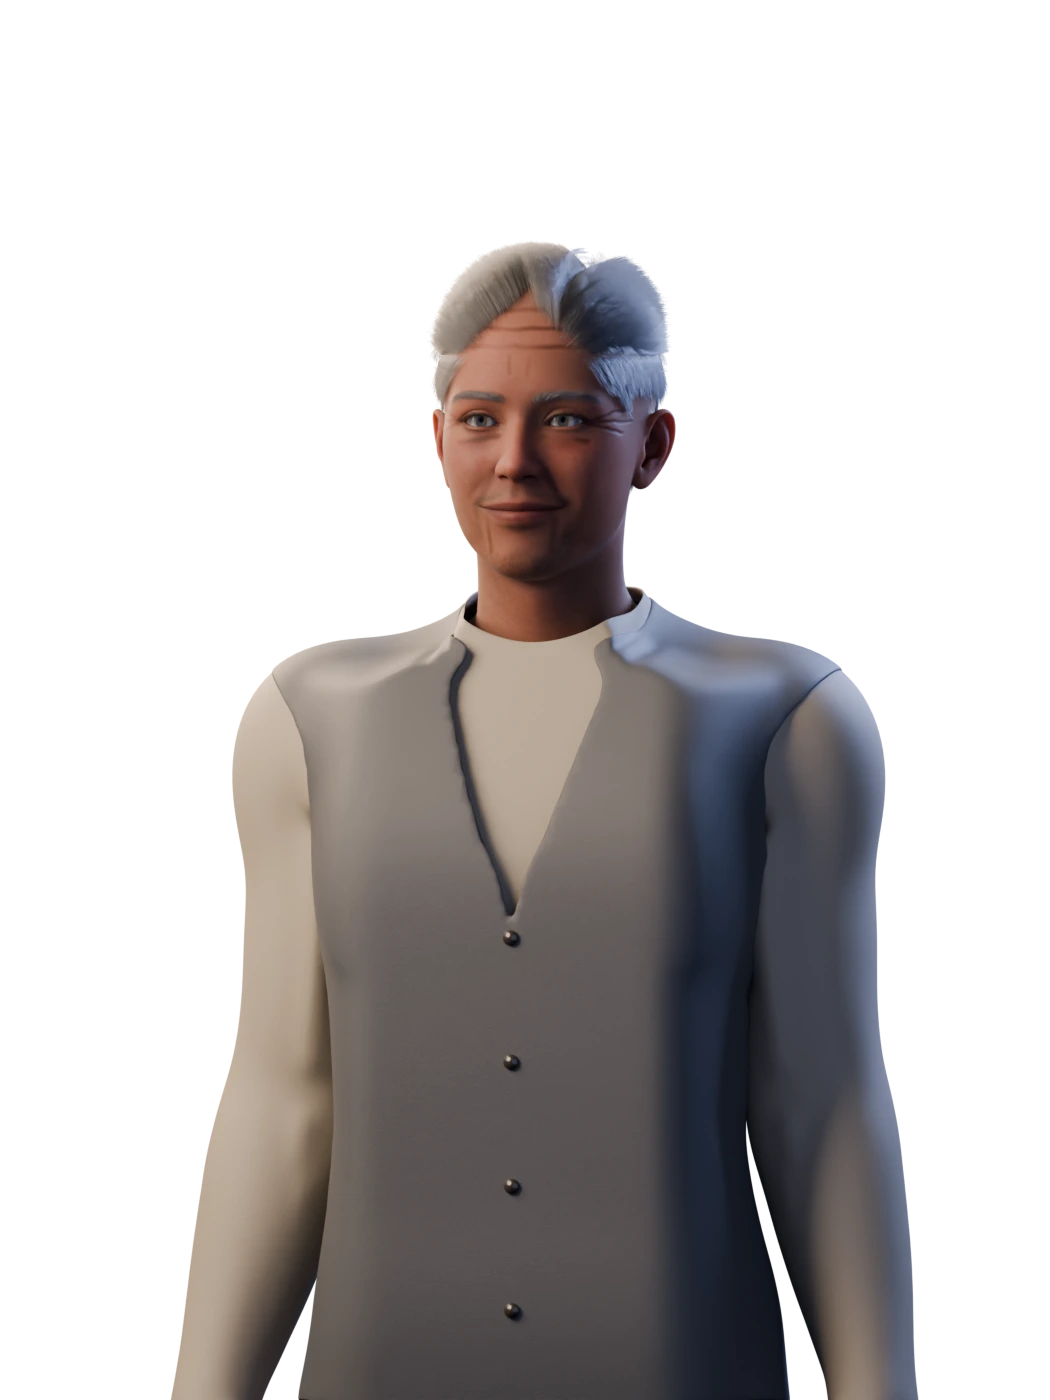
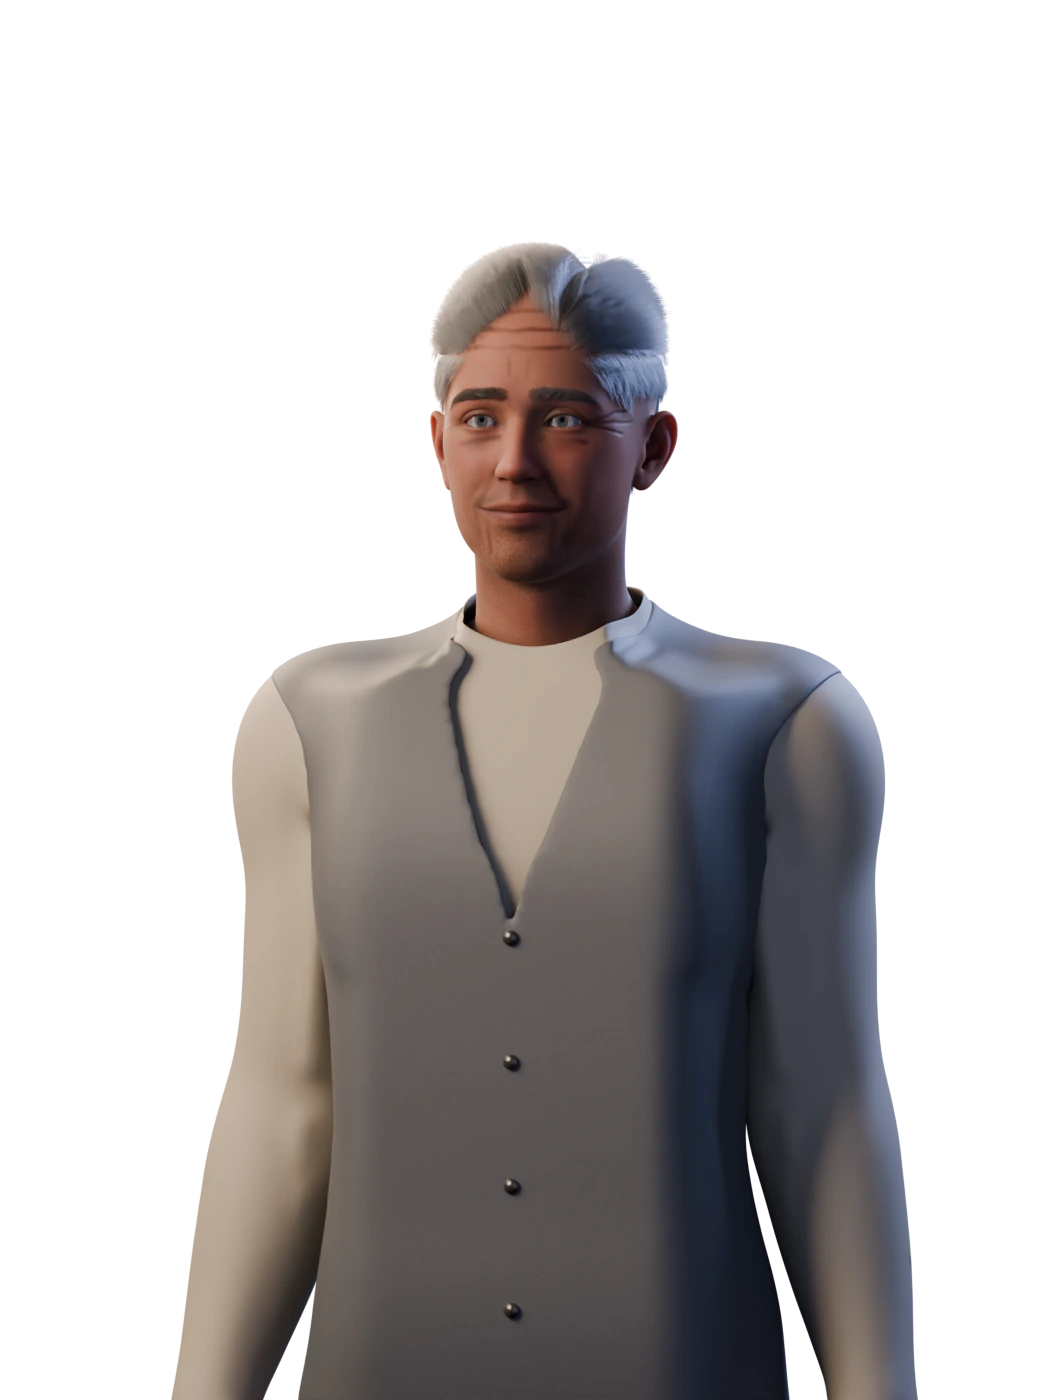
Art: make Webb read as a man
Matt's face is soft by default. Webb now layers the pack's masculine head
shapes (BaseMasculine, Ty at half strength, square jaw) over it, has a grey
stubble shadow (skinfx.stubble: speckle plus a soft shadow on chin, jaw and
upper lip, kept off the lips), thick dark salt-and-pepper brows (style 7)
and thinned lashes (--lashfade). shape loading now skips shapes that cannot
be applied instead of aborting.

diff --git a/art/tfo_daz.py b/art/tfo_daz.py
@@ -138,12 +138,15 @@ def apply_shapes(spec):
     for item in spec.split(","):
         key, val = item.split("=")
         prop = key if "_bs_" in key else key + "_head_bs_Head"
-        if prop not in rig.keys():
-            fname = prop + ".dsf"
-            bpy.ops.daz.import_custom_morphs(filepath=folder + fname, directory=folder, files=[{"name": fname}],
-                                             bodypart="Face")
-        api.set_slider(rig, prop, float(val))
-        print("SHAPE", prop, val, "(present)" if prop in rig.keys() else "(MISSING)")
+        try:
+            if prop not in rig.keys():
+                fname = prop + ".dsf"
+                bpy.ops.daz.import_custom_morphs(filepath=folder + fname, directory=folder, files=[{"name": fname}],
+                                                 bodypart="Face")
+            api.set_slider(rig, prop, float(val))
+            print("SHAPE", prop, val, "(present)" if prop in rig.keys() else "(MISSING)")
+        except Exception as e:
+            print("SHAPE could not apply", prop, str(e)[:120])
     api.update_drivers(rig)
     bpy.context.view_layer.update()
 
@@ -252,13 +255,20 @@ for slot in (eyes.material_slots if eyes else []):
 BASE = LIB + "/Runtime/Textures/DAZ/Characters/Genesis9/Base/"
 
 
-def cutout(m, alpha_path, colour=None, colour_path=None):
+def cutout(m, alpha_path, colour=None, colour_path=None, strength=1.0):
     """Card hair (lashes, brows): colour from a value or texture, see-through where the mask is dark."""
     b = principled(m)
     for l in list(b.inputs["Base Color"].links) + list(b.inputs["Alpha"].links):
         m.node_tree.links.remove(l)
     mask = image_node(m, alpha_path, colour=False)
-    m.node_tree.links.new(mask.outputs["Color"], b.inputs["Alpha"])
+    if strength != 1.0:                                  # thin out the card: fewer, fainter hairs
+        sc = m.node_tree.nodes.new("ShaderNodeMath")
+        sc.operation = "MULTIPLY"
+        sc.inputs[1].default_value = strength
+        m.node_tree.links.new(mask.outputs["Color"], sc.inputs[0])
+        m.node_tree.links.new(sc.outputs[0], b.inputs["Alpha"])
+    else:
+        m.node_tree.links.new(mask.outputs["Color"], b.inputs["Alpha"])
     if colour_path:
         c = image_node(m, colour_path)
         m.node_tree.links.new(c.outputs["Color"], b.inputs["Base Color"])
@@ -275,7 +285,8 @@ def cutout(m, alpha_path, colour=None, colour_path=None):
 
 lashes = find("Eyelashes")
 for slot in (lashes.material_slots if lashes else []):
-    cutout(slot.material, BASE + "Eyelashes/Genesis9_Eyelashes0%d_C.jpg" % int(opt("--lashes", 1)), colour=(0.015, 0.01, 0.008, 1))
+    cutout(slot.material, BASE + "Eyelashes/Genesis9_Eyelashes0%d_C.jpg" % int(opt("--lashes", 1)), colour=(0.015, 0.01, 0.008, 1),
+           strength=float(opt("--lashfade", 1.0)))
 brows = find("Eyebrows")
 for slot in (brows.material_slots if brows else []):
     cutout(slot.material, BASE + ("Eyebrows/OpacityCutout01_Thin.jpg" if opt("--browcut", "thick") == "thin" else "Eyebrows/OpacityCutout02_Thick.jpg"), colour=((tuple(float(x) for x in args[args.index("--brow") + 1].split(",")) + (1,)) if "--brow" in args else (0.045, 0.028, 0.02, 1)))
@@ -486,7 +497,7 @@ if "--knit" in args and find("Shirt"):
 
 bpy.context.view_layer.update()
 # --- skin: ageing and makeup, anchored to the neutral face --------------------------------------------------
-if opt("--age") or opt("--makeup"):
+if opt("--age") or opt("--makeup") or opt("--stubble"):
     import skinfx
     bpy.context.view_layer.update()
     lms = skinfx.landmarks(body)
@@ -494,6 +505,8 @@ if opt("--age") or opt("--makeup"):
         skinfx.age(body, lms, amount=float(opt("--age")))
     if opt("--makeup"):
         skinfx.makeup(body, lms, amount=float(opt("--makeup")))
+    if opt("--stubble"):
+        skinfx.stubble(body, lms, amount=float(opt("--stubble")))
     print("SKINFX age", opt("--age"), "makeup", opt("--makeup"))
 
 # --- expression: Daz's FACS controls, the same face units the MakeHuman characters used ------------------
@@ -732,3 +745,14 @@ if "--skindiag" in args:
     ev.to_mesh_clear()
     e_o = find("Eyes"); evs = [e_o.matrix_world @ v.co for v in e_o.data.vertices]
     em = sum(evs, Vector((0, 0, 0))) / len(evs); print("LM eyes mid x=%.3f y=%.3f z=%.3f" % (em.x, em.y, em.z))
+
+if "--rigkeys" in args:
+    rig = next(o for o in bpy.data.objects if o.type == "ARMATURE" and o.name.startswith(name))
+    print("RIGKEYS", [k for k in rig.keys() if any(w in k for w in ("Matt", "Masculine", "Feminine", "Character", "Head", "Daz"))][:40])
+    print("RIGKEYS body", [k for k in body.keys()][:20])
+    print("RIGKEYS sk", [k.name for k in body.data.shape_keys.key_blocks if "Masculine" in k.name or "Matt" in k.name or "Square" in k.name or "Round" in k.name][:20])
+
+if "--rigkeys2" in args:
+    print("RK2", " ".join("%s=%.2f" % (k.name, k.value) for k in body.data.shape_keys.key_blocks if k.name != "Basis" and not k.name.startswith(("facs_", "pJCM", "head_bs_Mouth", "pCTRL"))) [:3000])
+    rig = next(o for o in bpy.data.objects if o.type == "ARMATURE" and o.name.startswith(name))
+    print("RK2 ctrl", rig.get("Matt_figure_ctrl_Character"))

diff --git a/art/skinfx.py b/art/skinfx.py
@@ -260,3 +260,42 @@ def makeup(body, lm, amount=1.0, lip=(0.46, 0.08, 0.11), blush=(0.88, 0.30, 0.30
     out = _tint(nt, out, lip, nb.math("MULTIPLY", lip_mask, 0.62 * amount))
     nt.links.new(out, bsdf.inputs["Base Color"])
     return lip_mask
+
+
+def stubble(body, lm, amount=1.0, colour=(0.55, 0.52, 0.5)):
+    """A short grey-flecked beard shadow over the lower face: fine speckle, darkest on the chin, jaw and upper lip,
+    absent from the lips themselves, with a slightly raised grain."""
+    nt = _head_material(body).node_tree
+    bsdf, src = _base_color_source(nt)
+    nb = _Nodes(nt)
+    p = nb.P
+    nostril, chin = lm["l_nostril"], lm["chin"]
+    lip_up, lip_lo = lm["lipuppermiddle"], lm["liplowermiddle"]
+    # The beard area: below the cheekbones, around and below the mouth, along the jaw, blending out over the cheeks.
+    cheek_z = lm["l_cheek"].z
+    lower = nb.mapr(nb.vmath("DOT_PRODUCT", p, (0.0, 0.0, 1.0)), chin.z - 0.012, cheek_z + 0.005, 1.0, 0.0)
+    wide = nb.mapr(nb.math("ABSOLUTE", nb.vmath("DOT_PRODUCT", p, (1.0, 0.0, 0.0))), 0.052, 0.07, 1.0, 0.0)
+    jaw_edge = nb.mapr(nb.vmath("DOT_PRODUCT", p, (0.0, 0.0, 1.0)), chin.z - 0.05, chin.z - 0.014, 0.0, 1.0)
+    area = nb.math("MULTIPLY", nb.math("MULTIPLY", lower, wide), jaw_edge)
+    # Not on the lips: carve out the mouth.
+    lips = nb.blob(p, (0.0, lip_up.y, (lip_up.z + lip_lo.z) / 2), (0.030, 1.0, 0.0105), sharp=0.55)
+    area = nb.math("MULTIPLY", area, nb.math("SUBTRACT", 1.0, lips))
+    # The speckle itself: each noise cell is a hair. Threshold two scales of noise for a fine, uneven grain.
+    grain = nt.nodes.new("ShaderNodeTexNoise")
+    grain.inputs["Scale"].default_value = 900.0
+    grain.inputs["Detail"].default_value = 0.0
+    grain.inputs["Roughness"].default_value = 1.0
+    nt.links.new(p, grain.inputs["Vector"])
+    patch = nt.nodes.new("ShaderNodeTexNoise")
+    patch.inputs["Scale"].default_value = 18.0
+    nt.links.new(p, patch.inputs["Vector"])
+    fleck = nb.mapr(grain.outputs["Fac"], 0.42, 0.58, 0.0, 1.0, smooth=False)
+    density = nb.mapr(patch.outputs["Fac"], 0.3, 0.7, 0.55, 1.0)
+    hairs = nb.math("MULTIPLY", nb.math("MULTIPLY", fleck, density), area)
+    # Under the speckle, a soft shadow so the lower face reads darker overall.
+    shadow = nb.math("MULTIPLY", area, 0.22 * amount)
+    out = _tint(nt, src, (0.55, 0.45, 0.42), shadow, "MULTIPLY")
+    out = _tint(nt, out, colour, nb.math("MULTIPLY", hairs, 0.85 * amount), "MULTIPLY")
+    nt.links.new(out, bsdf.inputs["Base Color"])
+    _add_bump(nt, nb.math("MULTIPLY", hairs, 1.0), 0.25 * amount, distance=0.0004)
+    return area
